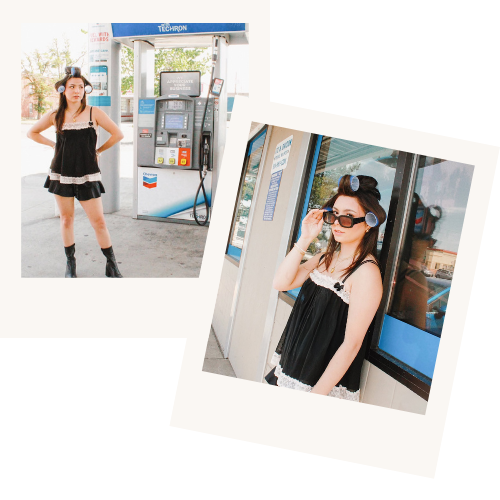
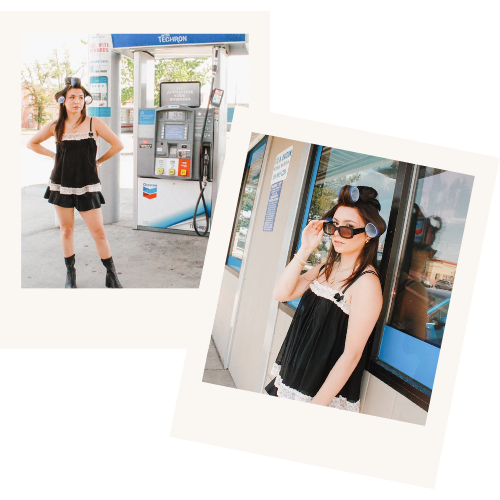
adding new portfolio with memory

Changed region(s): [[0.03, 0.03, 0.96, 0.87], [0.03, 0.36, 0.06, 0.39]]

diff --git a/script.js b/script.js
@@ -1,15 +1,36 @@
-const toggleButton = document.querySelector(".theme-toggle");
+const toggle = document.querySelector(".theme-toggle");
 const heroImage = document.querySelector(".hero-image");
 
-toggleButton.addEventListener("click", () => {
-  document.body.classList.toggle("dark");
+// Load saved theme (if any)
+const savedTheme = localStorage.getItem("theme");
 
-  const isDark = document.body.classList.contains("dark");
+if (savedTheme) {
+  document.documentElement.dataset.theme = savedTheme;
+  applyTheme(savedTheme);
+}
 
-  toggleButton.textContent = isDark ? "☀" : "☾";
+function applyTheme(theme) {
+  toggle.textContent = theme === "dark" ? "☀" : "☾";
 
-  // Swap hero image
-  heroImage.src = isDark
-    ? heroImage.dataset.dark
-    : heroImage.dataset.light;
+  if (heroImage?.dataset?.light && heroImage?.dataset?.dark) {
+    heroImage.src = theme === "dark"
+      ? heroImage.dataset.dark
+      : heroImage.dataset.light;
+  }
+}
+
+toggle.addEventListener("click", function () {
+  const currentTheme = document.documentElement.dataset.theme;
+
+  let newTheme;
+  if (currentTheme === "dark") {
+    newTheme = "light";
+  } else {
+    newTheme = "dark";
+  }
+
+  document.documentElement.dataset.theme = newTheme;
+  localStorage.setItem("theme", newTheme);
+
+  applyTheme(newTheme);
 });

diff --git a/styles.css b/styles.css
@@ -22,7 +22,7 @@ body {
 
 /*---------- Dark and Light Modes ----------*/
 
-body.dark {
+[data-theme="dark"] {
   --color-bg: var(--neutral-50);
   --color-surface: rgba(255,255,255,0.08);
   --color-text: var(--neutral-10);
@@ -32,7 +32,7 @@ body.dark {
   --nav-bg: rgba(43, 43, 43, 0.9);
 }
 
-body.light {
+[data-theme="light"] {
   --color-bg: var(--neutral-10);
   --color-surface: rgba(255,255,255,0.08);
   --color-text: var(--neutral-50);

diff --git a/index.html b/index.html
@@ -1,5 +1,5 @@
 <!DOCTYPE html>
-<html lang="en">
+<html lang="en" data-theme="light">
 <head>
   <meta charset="UTF-8">
   <title>emc0ded — Home</title>
